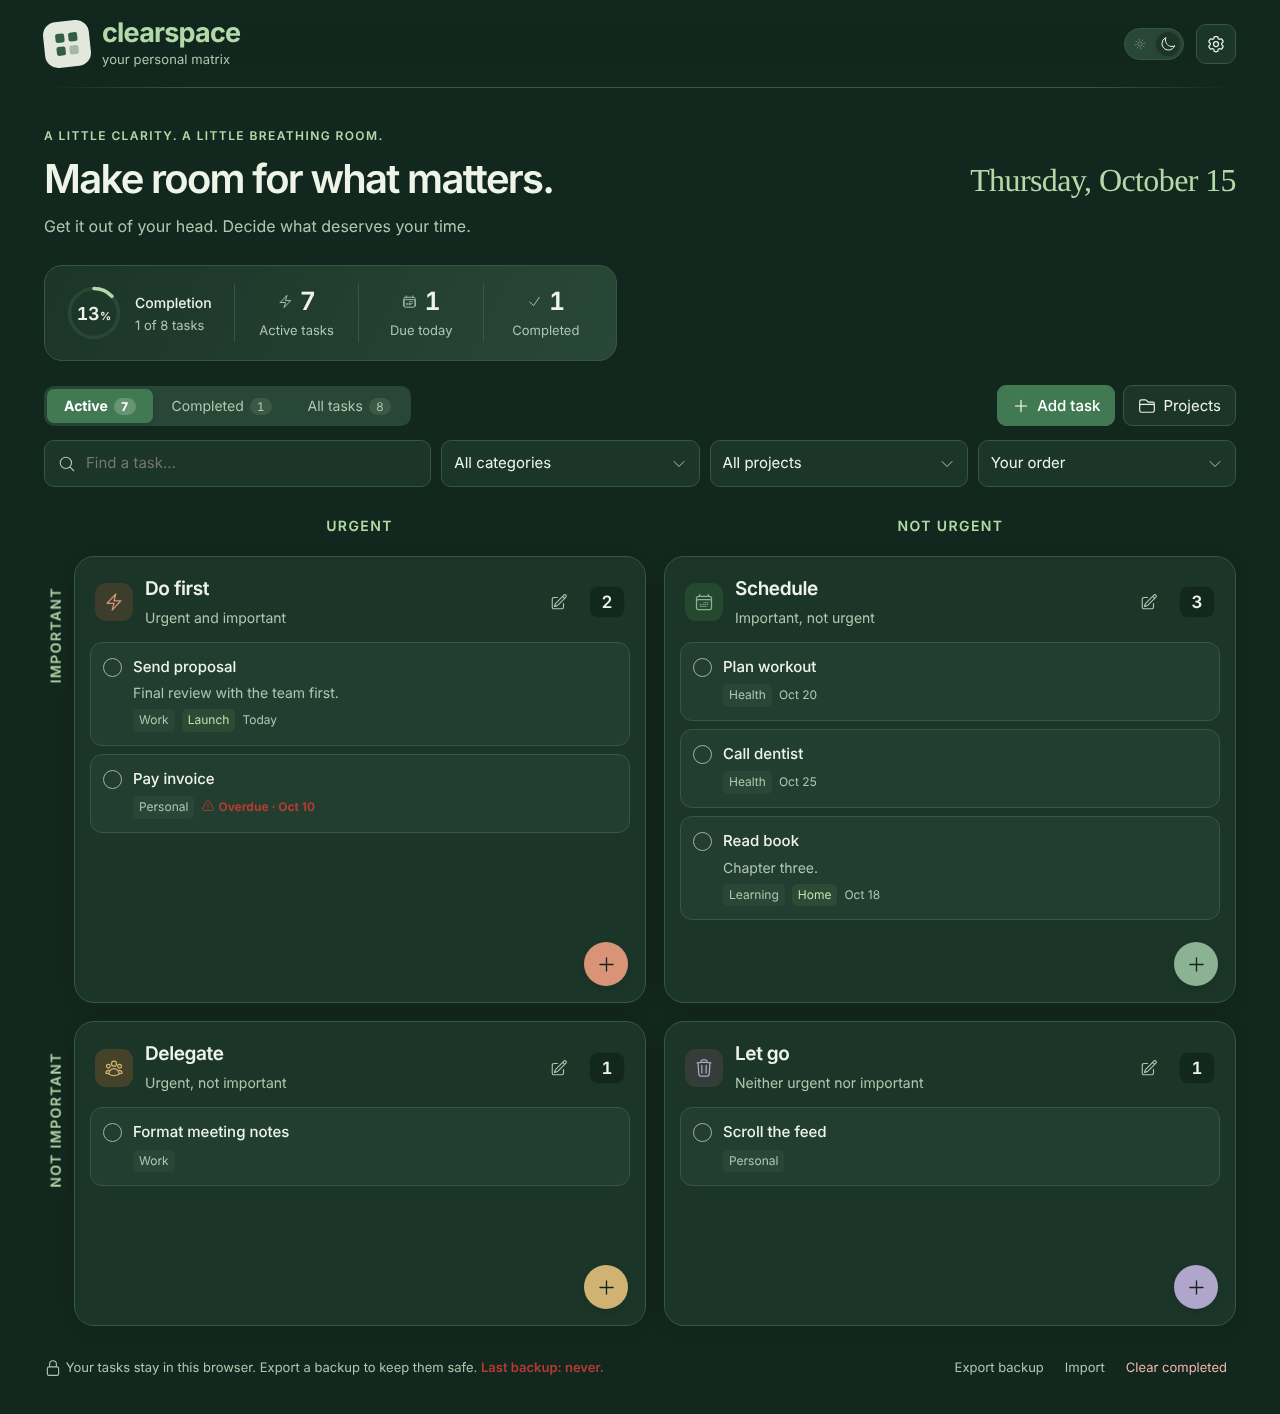
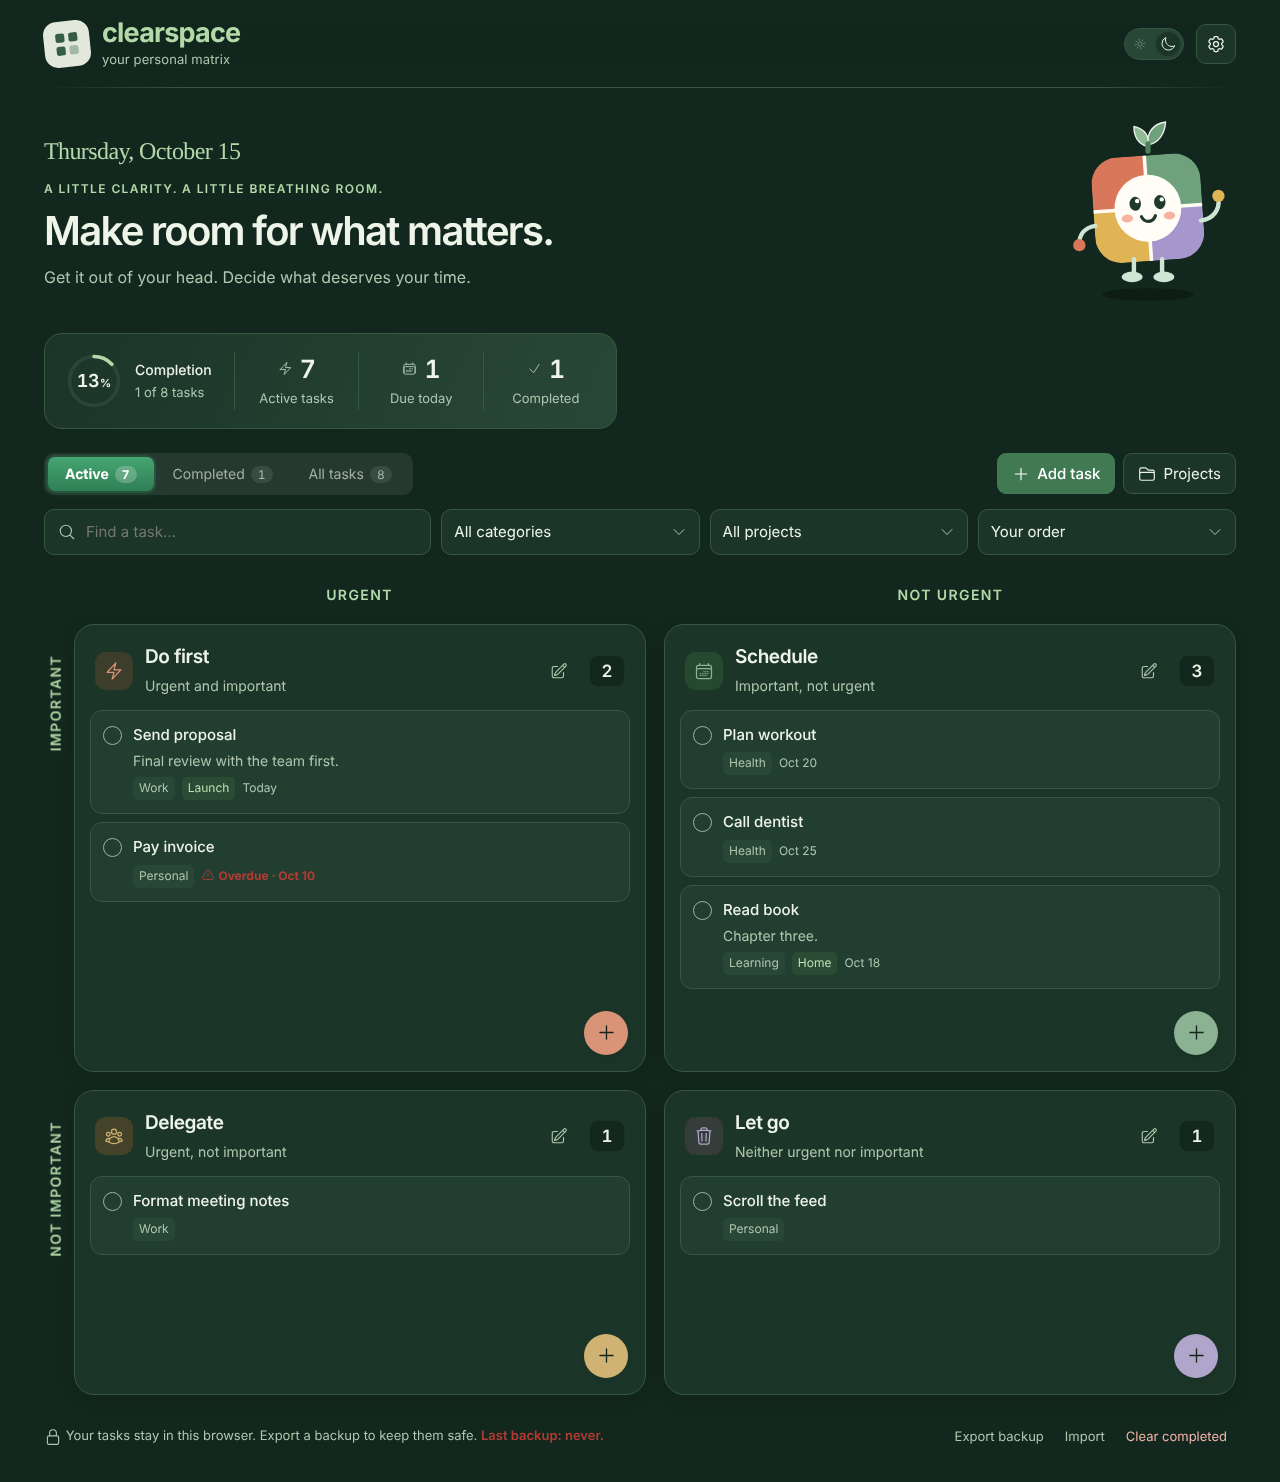
Add header mascot, move the date left and make the active tab more vibrant
Claude-Session: https://claude.ai/code/session_01Nq72dWvELE8WWzs1VCTzCt

diff --git a/src/components/Mascot.tsx b/src/components/Mascot.tsx
@@ -1,0 +1,78 @@
+/** Decorative "Matt", the matrix mascot: four quadrant tiles with a friendly face. */
+export function Mascot() {
+  return (
+    <svg
+      className="mascot"
+      viewBox="0 0 200 210"
+      role="presentation"
+      aria-hidden="true"
+      focusable="false"
+    >
+      <ellipse className="mascot-shadow" cx="100" cy="196" rx="52" ry="7" />
+      <g className="mascot-body">
+        <path className="mascot-leaf" d="M100 26c-2-14 6-24 20-26-1 14-8 24-20 26z" />
+        <path className="mascot-leaf mascot-leaf-2" d="M100 28c2-12-4-20-16-23 0 12 5 20 16 23z" />
+        <rect x="97" y="22" width="6" height="14" rx="3" className="mascot-stem" />
+        <g transform="rotate(-4 100 100)">
+          <clipPath id="mascot-clip">
+            <rect x="38" y="38" width="124" height="120" rx="30" />
+          </clipPath>
+          <g clipPath="url(#mascot-clip)">
+            <rect x="38" y="38" width="63" height="61" fill="#d9775b" />
+            <rect x="99" y="38" width="63" height="61" fill="#6fa27c" />
+            <rect x="38" y="97" width="63" height="61" fill="#e0b455" />
+            <rect x="99" y="97" width="63" height="61" fill="#a597cb" />
+            <rect x="98" y="38" width="4" height="120" fill="#fffdf6" />
+            <rect x="38" y="96" width="124" height="4" fill="#fffdf6" />
+          </g>
+          <circle cx="100" cy="98" r="38" fill="#fffdf6" />
+          <g className="mascot-eyes">
+            <ellipse cx="86" cy="92" rx="6.5" ry="8" fill="#1f3a2a" />
+            <ellipse cx="114" cy="92" rx="6.5" ry="8" fill="#1f3a2a" />
+            <circle cx="88.4" cy="89" r="2.5" fill="#fff" />
+            <circle cx="116.4" cy="89" r="2.5" fill="#fff" />
+          </g>
+          <ellipse cx="76" cy="108" rx="6.5" ry="4.5" fill="#f5a08a" opacity="0.8" />
+          <ellipse cx="124" cy="108" rx="6.5" ry="4.5" fill="#f5a08a" opacity="0.8" />
+          <path
+            d="M92 107c3.5 8 12.5 8 16 0"
+            fill="none"
+            stroke="#1f3a2a"
+            strokeWidth="3.6"
+            strokeLinecap="round"
+          />
+        </g>
+        <g className="mascot-wave">
+          <path
+            d="M160 112c14-2 22-12 20-26"
+            fill="none"
+            className="mascot-limb"
+            stroke="#1f3a2a"
+            strokeWidth="5"
+            strokeLinecap="round"
+          />
+          <circle cx="180" cy="84" r="7" fill="#e0b455" stroke="none" />
+        </g>
+        <path
+          d="M40 118c-12 2-18 10-18 20"
+          fill="none"
+          className="mascot-limb"
+          stroke="#1f3a2a"
+          strokeWidth="5"
+          strokeLinecap="round"
+        />
+        <circle cx="22" cy="140" r="7" fill="#d9775b" />
+        <path
+          d="M84 156v16M116 156v16"
+          fill="none"
+          className="mascot-limb"
+          stroke="#1f3a2a"
+          strokeWidth="5"
+          strokeLinecap="round"
+        />
+        <ellipse cx="82" cy="176" rx="12" ry="6" fill="#1f3a2a" className="mascot-foot" />
+        <ellipse cx="118" cy="176" rx="12" ry="6" fill="#1f3a2a" className="mascot-foot" />
+      </g>
+    </svg>
+  );
+}

diff --git a/src/styles.css b/src/styles.css
@@ -2656,3 +2656,117 @@ button,
   border-color: #a84a3f;
   color: #fff;
 }
+
+/* Header: the date leads on the left, the mascot waves from the right. */
+.intro .date {
+  display: block;
+  margin-bottom: 14px;
+  font-size: calc(1.5rem * var(--text-scale, 1));
+  text-align: left;
+}
+.intro .eyebrow {
+  display: block;
+}
+.mascot {
+  flex-shrink: 0;
+  width: clamp(120px, 15vw, 176px);
+  height: auto;
+  overflow: visible;
+}
+.mascot :where(rect, ellipse, circle) {
+  stroke: none;
+}
+.mascot-shadow {
+  fill: #1f3a2a;
+  opacity: 0.12;
+}
+.mascot-leaf {
+  fill: #6fa27c;
+}
+.mascot-leaf-2 {
+  fill: #8fbb97;
+}
+.mascot-stem {
+  fill: #4f7f5c;
+}
+@media (max-width: 760px) {
+  .mascot {
+    display: none;
+  }
+  .intro .date {
+    flex: none;
+    font-size: calc(1.375rem * var(--text-scale, 1));
+    margin-bottom: 10px;
+  }
+}
+@media (prefers-reduced-motion: no-preference) {
+  .mascot-body {
+    animation: mascot-bob 4.2s ease-in-out infinite;
+    transform-origin: 100px 190px;
+  }
+  .mascot-eyes {
+    animation: mascot-blink 5.5s infinite;
+    transform-origin: 100px 88px;
+    transform-box: view-box;
+  }
+  .mascot-wave {
+    animation: mascot-wave 2.6s ease-in-out infinite;
+    transform-origin: 160px 112px;
+    transform-box: view-box;
+  }
+}
+@keyframes mascot-bob {
+  50% {
+    transform: translateY(-5px);
+  }
+}
+@keyframes mascot-blink {
+  0%,
+  94%,
+  100% {
+    transform: scaleY(1);
+  }
+  97% {
+    transform: scaleY(0.1);
+  }
+}
+@keyframes mascot-wave {
+  0%,
+  100% {
+    transform: rotate(0);
+  }
+  50% {
+    transform: rotate(-9deg);
+  }
+}
+
+/* Status tabs: a saturated active pill against quieter inactive tabs. */
+.tabs {
+  background: color-mix(in srgb, var(--ink) 9%, var(--bg));
+  padding: 4px;
+}
+.tabs button {
+  color: color-mix(in srgb, var(--ink) 62%, transparent);
+}
+.tab-indicator {
+  background: linear-gradient(180deg, #2f8456, #1f6240);
+  box-shadow:
+    0 0 0 2px color-mix(in srgb, #2f8456 30%, transparent),
+    0 3px 8px #1f624055;
+}
+.night .tab-indicator {
+  background: linear-gradient(180deg, #46a572, #2f7f55);
+}
+.tabs .active .tab-count {
+  background: #ffffff38;
+}
+.night .mascot-limb {
+  stroke: #cfe5d3;
+}
+.night .mascot-foot {
+  fill: #cfe5d3;
+}
+.night .mascot-shadow {
+  fill: #000;
+  opacity: 0.25;
+}

diff --git a/src/App.tsx b/src/App.tsx
@@ -10,6 +10,7 @@ import { useMatrix } from './lib/useMatrix';
 import { usePreferences } from './lib/usePreferences';
 import { useToday } from './lib/useToday';
 import { Icon } from './components/Icon';
+import { Mascot } from './components/Mascot';
 import { Modal } from './components/Modal';
 import { AppHeader } from './features/app/AppHeader';
 import type { Menu } from './features/app/AppHeader';
@@ -165,11 +166,6 @@ export default function App() {
         <main>
           <section className="intro">
             <div>
-              <span className="eyebrow">A little clarity. A little breathing room.</span>
-              <h1 id="matrixTitle">Make room for what matters.</h1>
-              <p id="matrixSubtitle">Get it out of your head. Decide what deserves your time.</p>
-            </div>
-            <div>
               <time className="date">
                 {new Date(today + 'T12:00:00').toLocaleDateString(undefined, {
                   weekday: 'long',
@@ -177,7 +173,11 @@ export default function App() {
                   day: 'numeric',
                 })}
               </time>
+              <span className="eyebrow">A little clarity. A little breathing room.</span>
+              <h1 id="matrixTitle">Make room for what matters.</h1>
+              <p id="matrixSubtitle">Get it out of your head. Decide what deserves your time.</p>
             </div>
+            <Mascot />
           </section>
           {matrix.tasks.length > 0 && <TaskOverview summary={summary} />}
           {matrix.tasks.length === 0 && (

diff --git a/e2e/ux.spec.ts b/e2e/ux.spec.ts
@@ -23,7 +23,10 @@ test('the active status tab is a solid highlighted pill', async ({ page }) => {
   await open(page, { matrix: seedMatrix });
   const active = page.locator('.tabs button.active');
   await expect(active).toContainText('Active');
-  await expect(active.locator('.tab-indicator')).toHaveCSS('background-color', 'rgb(49, 94, 67)');
+  await expect(active.locator('.tab-indicator')).toHaveCSS(
+    'background-image',
+    'linear-gradient(rgb(47, 132, 86), rgb(31, 98, 64))',
+  );
   await expect(active).toHaveCSS('color', 'rgb(255, 255, 255)');
   await page.getByRole('button', { name: 'Completed', exact: true }).click();
   await expect(page.locator('.tabs button.active')).toContainText('Completed');
@@ -104,4 +107,14 @@ test('phones get a floating add button and collapsed filters', async ({ page, is
   await expect(page.getByRole('textbox', { name: 'Find a task' })).toBeVisible();
   await page.getByRole('button', { name: 'Quick add task' }).click();
   await expect(editorDialog(page)).toBeVisible();
+});
+
+test('the date leads on the left and the mascot sits on the right', async ({ page, isMobile }) => {
+  test.skip(!!isMobile, 'The mascot is hidden on phones');
+  await open(page, { matrix: seedMatrix });
+  const date = await page.locator('.intro .date').boundingBox();
+  const mascot = await page.locator('.intro .mascot').boundingBox();
+  expect(date!.x).toBeLessThan(100);
+  expect(mascot!.x).toBeGreaterThan(900);
+  await expect(page.locator('.mascot')).toHaveAttribute('aria-hidden', 'true');
 });
